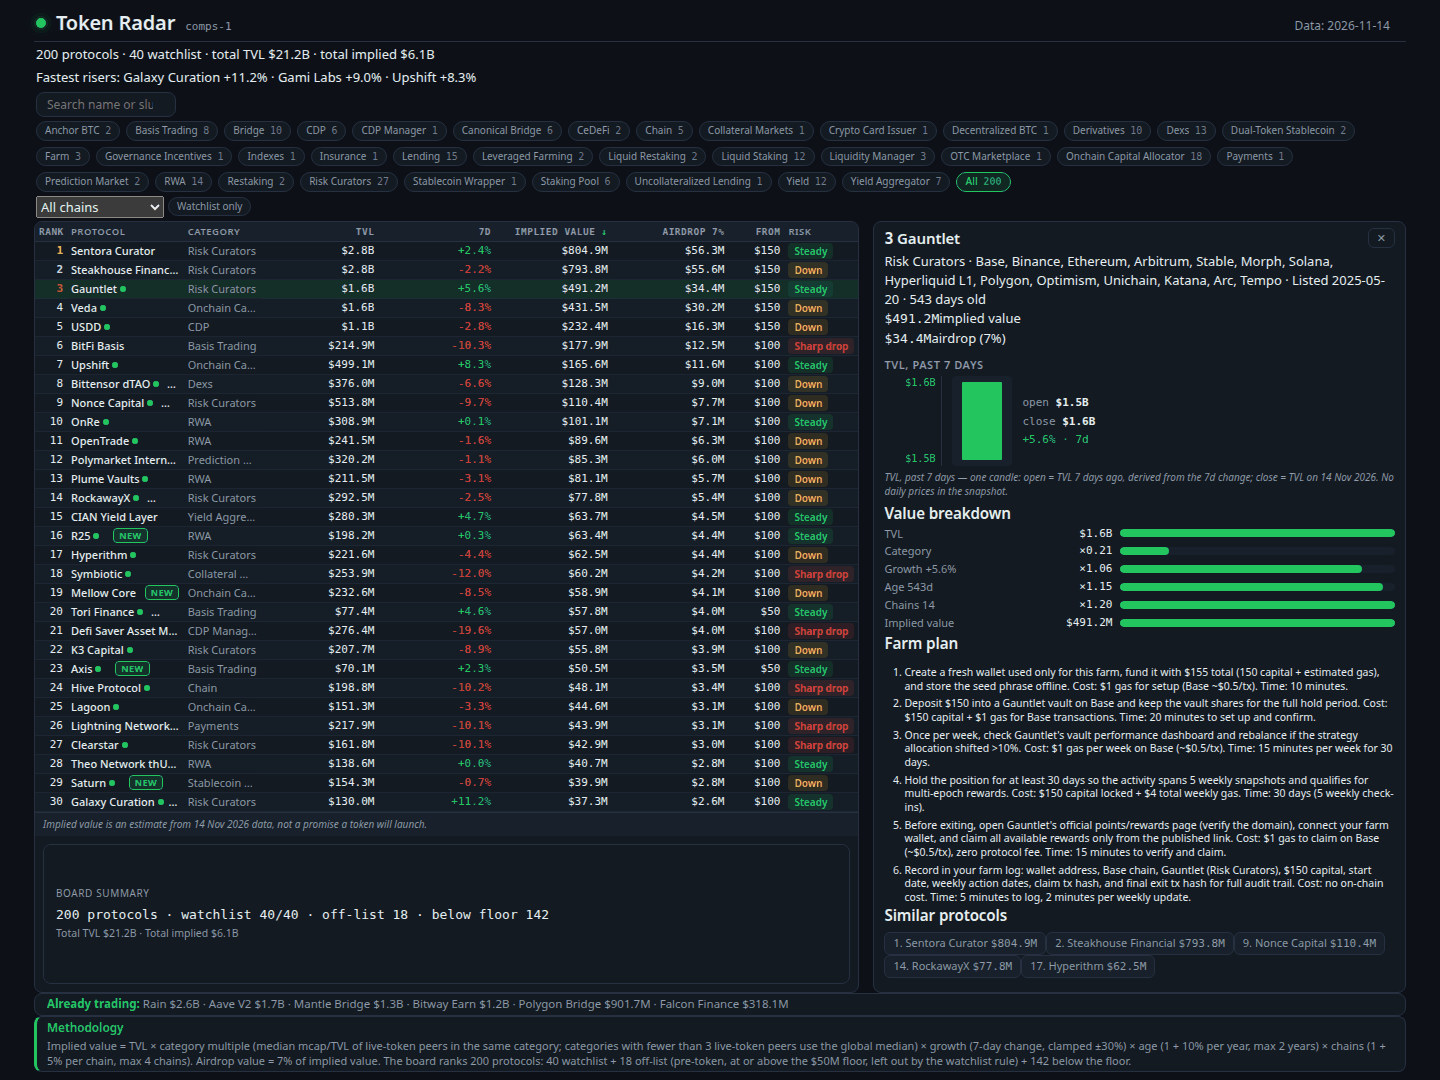
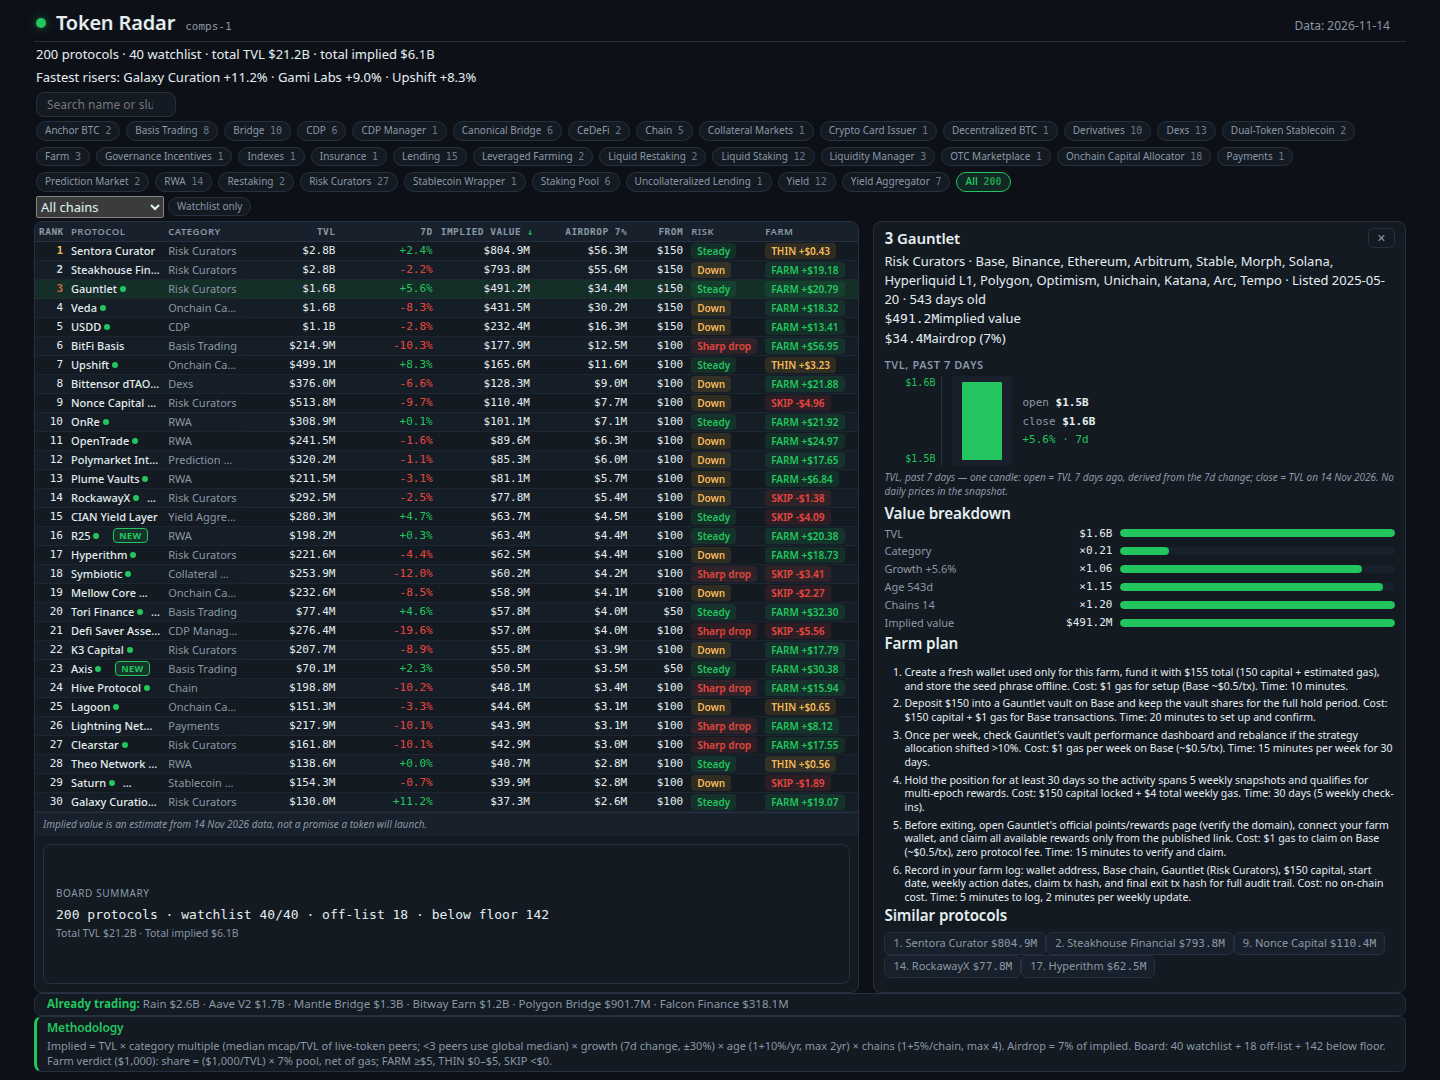
Fase 14: farm verdict column (runtime, net of gas) + hero methodology note

Changed region(s): [[0.0938, 0.2139, 0.5938, 0.7639], [0.0312, 0.9472, 0.9688, 1.0]]

diff --git a/dashboard/app.css b/dashboard/app.css
@@ -53,9 +53,6 @@ button { cursor: pointer; }
   background: var(--surface); border: 1px solid var(--border); border-radius: var(--radius);
   padding: 3px 12px; min-width: 108px;
 }
-.stat-label { color: var(--muted); font-size: 10px; text-transform: uppercase; letter-spacing: 0.06em; }
-.stat-value { font-family: var(--font-num); font-size: 15px; font-weight: 500; font-variant-numeric: tabular-nums; }
-.stat-sub { color: var(--muted); font-size: 10px; }
 
 
 .riser {
@@ -78,7 +75,6 @@ button { cursor: pointer; }
 }
 
 .howto { color: var(--muted); font-size: 11px; padding: 3px 2px; }
-.howto b { color: var(--ink); font-weight: 600; }
 
 .filters { display: flex; flex-wrap: wrap; align-items: center; gap: 6px; padding: 2px 2px 3px; }
 .chip {
@@ -90,7 +86,7 @@ button { cursor: pointer; }
   background: rgba(34, 197, 94, 0.12); border-color: var(--accent); color: var(--accent); font-weight: 600;
 }
 .chip .count { color: inherit; opacity: 0.75; font-family: var(--font-num); margin-left: 3px; }
-.filters input[type="search"], .filters input[type="text"] {
+.filters input[type="search"] {
   background: var(--surface); border: 1px solid var(--border); border-radius: var(--radius);
   padding: 3px 10px; font-size: 12px; color: var(--ink); width: 180px;
 }
@@ -149,7 +145,6 @@ button { cursor: pointer; }
   background: var(--accent); margin-right: 5px; vertical-align: 1px;
 }
 
-.spark { display: inline-block; height: 6px; border-radius: 3px; background: var(--accent); opacity: 0.55; vertical-align: middle; }
 
 .honest {
   padding: 6px 10px; color: var(--muted); font-size: 11px; font-style: italic;
@@ -159,8 +154,6 @@ button { cursor: pointer; }
 .detail { margin-top: 12px; border: 1px solid var(--border); border-radius: var(--radius); background: var(--surface); padding: 12px 14px; }
 .detail[hidden], .live[hidden], .method[hidden] { display: none; }
 .detail h2 { font-size: 16px; margin-bottom: 2px; }
-.detail .detail-sub { color: var(--muted); font-size: 11px; margin-bottom: 10px; }
-.detail-grid { display: grid; grid-template-columns: repeat(auto-fit, minmax(130px, 1fr)); gap: 8px; margin-bottom: 10px; }
 .breakdown { margin: 10px 0; }
 .breakdown-row { display: flex; align-items: center; gap: 8px; padding: 2px 0; font-size: 12px; }
 .breakdown-row .br-label { width: 150px; flex: none; color: var(--muted); }
@@ -170,8 +163,6 @@ button { cursor: pointer; }
 .tvl-candle { margin: 8px 0 4px; }
 .tvl-candle-top { display: flex; align-items: baseline; justify-content: space-between; gap: 8px; }
 .tvl-candle-top .tvl-title { color: var(--muted); font-size: 11px; font-weight: 600; text-transform: uppercase; letter-spacing: 0.05em; }
-.tvl-candle-nums { font-family: var(--font-num); font-size: 11px; color: var(--muted); }
-.tvl-candle-nums b { color: var(--ink); font-weight: 600; }
 .tvl-svg { flex: none; width: 60px; height: 90px; background: var(--surface2); border-radius: 4px; }
 .tvl-chart { display: flex; align-items: center; gap: 10px; margin: 4px 0; }
 .tvl-scale { position: relative; flex: none; width: 58px; height: 90px; border-right: 1px solid var(--border); }
@@ -185,7 +176,6 @@ button { cursor: pointer; }
 
 .peers { margin-top: 10px; }
 .peers h3 { font-size: 12px; color: var(--muted); text-transform: uppercase; letter-spacing: 0.05em; margin-bottom: 4px; }
-.peers-list { display: flex; flex-wrap: wrap; gap: 6px; }
 .peer {
   background: var(--surface2); border: 1px solid var(--border); border-radius: 6px;
   padding: 2px 8px; font-size: 11px; color: var(--muted);
@@ -195,7 +185,6 @@ button { cursor: pointer; }
 .steps h3 { font-size: 12px; color: var(--muted); text-transform: uppercase; letter-spacing: 0.05em; margin-bottom: 6px; }
 .steps ol { margin: 0; padding-left: 20px; display: grid; gap: 6px; }
 .steps li { font-size: 12px; line-height: 1.45; }
-.steps .step-cost { color: var(--muted); font-size: 11px; display: block; }
 .close-btn {
   float: right; background: transparent; border: 1px solid var(--border); border-radius: 6px;
   color: var(--muted); font-size: 11px; padding: 1px 8px;
@@ -256,8 +245,8 @@ button { cursor: pointer; }
 }
 .hero #filters .chip { font-size: 10px; padding: 1px 8px; }
 .hero #filters .chips { display: flex; flex-wrap: wrap; gap: 6px; flex: 1 1 auto; min-width: 0; }
-.hero #filters input[type="search"], .hero #filters input[type="text"], .hero #filters select, .hero #filters > .chip { flex: none; }
-.hero #filters input[type="search"], .hero #filters input[type="text"] { width: 140px; }
+.hero #filters input[type="search"], .hero #filters select, .hero #filters > .chip { flex: none; }
+.hero #filters input[type="search"] { width: 140px; }
 .hero .board-wrap { grid-column: 1; grid-row: 5; }
 .hero #detail { grid-column: 2; grid-row: 5; margin-top: 0; }
 .hero #live { grid-column: 1 / -1; grid-row: 6; margin-top: 0; padding: 2px 12px; font-size: 11.5px; color: var(--muted); }

diff --git a/dashboard/app.js b/dashboard/app.js
@@ -105,7 +105,7 @@
     $('honest').textContent = HONEST_TEXT;
     $('method').innerHTML =
       '<h2>Methodology</h2>' +
-      '<p class="method-formula">Implied value = TVL \u00d7 category multiple (median mcap/TVL of live-token peers in the same category; categories with fewer than 3 live-token peers use the global median) \u00d7 growth (7-day change, clamped \u00b130%) \u00d7 age (1 + 10% per year, max 2 years) \u00d7 chains (1 + 5% per chain, max 4 chains). Airdrop value = 7% of implied value. The board ranks 200 protocols: 40 watchlist + 18 off-list (pre-token, at or above the $50M floor, left out by the watchlist rule) + 142 below the floor.</p>' +
+      '<p class="method-formula">' + (HERO ? 'Implied = TVL × category multiple (median mcap/TVL of live-token peers; <3 peers use global median) × growth (7d change, ±30%) × age (1+10%/yr, max 2yr) × chains (1+5%/chain, max 4). Airdrop = 7% of implied. Board: 40 watchlist + 18 off-list + 142 below floor. Farm verdict ($1,000): share = ($1,000/TVL) × 7% pool, net of gas; FARM ≥$5, THIN $0–$5, SKIP <$0.</p>' : 'Implied value = TVL \u00d7 category multiple (median mcap/TVL of live-token peers in the same category; categories with fewer than 3 live-token peers use the global median) \u00d7 growth (7-day change, clamped \u00b130%) \u00d7 age (1 + 10% per year, max 2 years) \u00d7 chains (1 + 5% per chain, max 4 chains). Airdrop value = 7% of implied value. The board ranks 200 protocols: 40 watchlist + 18 off-list (pre-token, at or above the $50M floor, left out by the watchlist rule) + 142 below the floor.</p>') +
       categoryMultiplesHtml() +
       '<p class="method-honest">' + esc(HONEST_TEXT) + '</p>';
   }
@@ -158,6 +158,10 @@
     if (c < -10) return ['high', 'Sharp drop'];
     return ['mid', 'Down'];
   }
+  function farmOf(r) {
+    var m = /\$([0-9.]+) gas/i.exec(r.farm_steps[0] || ''), g = m ? +m[1] : 1, s = 1e3 / (r.tvl_usd || 1) * (r.airdrop_value_usd || 0), n = s - g;
+    return [n >= 5 ? ['low', 'FARM'] : n >= 0 ? ['mid', 'THIN'] : ['high', 'SKIP'], n];
+  }
 
   function renderBoard() {
     document.querySelectorAll('.th-sort').forEach(function (th) {
@@ -178,6 +182,7 @@
       var tr = document.createElement('tr');
       tr.setAttribute('data-slug', r.slug);
       var risk = riskOf(r);
+      var f=farmOf(r);
       var changeCls = r.change_7d == null ? 'flat' : r.change_7d > 0 ? 'up' : r.change_7d < 0 ? 'down' : 'flat';
       var rankCls = r.rank <= 3 ? ' medal-' + r.rank : '';
       tr.innerHTML =
@@ -191,7 +196,8 @@
         '<td class="num">' + money(r.airdrop_value_usd) + '</td>' +
         '<td>' + (r.listed_at ? esc(r.listed_at) : '—') + '</td>' +
         '<td class="num">' + (r.starting_capital_usd != null ? money(r.starting_capital_usd) : '—') + '</td>' +
-        '<td><span class="risk-label risk-' + risk[0] + '">' + risk[1] + '</span></td>';
+        '<td><span class="risk-label risk-' + risk[0] + '">' + risk[1] + '</span></td>' +
+        '<td><span class="risk-label risk-' + f[0][0] + '">' + f[0][1] + ' ' + (f[1]<0?'-':'+') + '$' + Math.abs(f[1]).toFixed(2) + '</span></td>';
       tr.addEventListener('click', function () {
         document.querySelectorAll('#board-body tr.selected').forEach(function (x) { x.classList.remove('selected'); });
         tr.classList.add('selected');

diff --git a/dashboard/index.html b/dashboard/index.html
@@ -46,6 +46,7 @@
           <th data-key="listed_at" class="th-sort">Listed</th>
           <th data-key="starting_capital_usd" class="th-sort num">From</th>
           <th data-key="risk" class="th-sort">Risk</th>
+          <th>Farm</th>
         </tr>
       </thead>
       <tbody id="board-body"></tbody>
